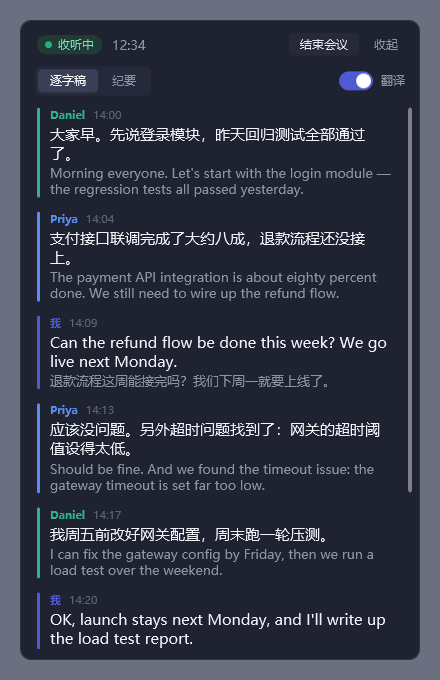
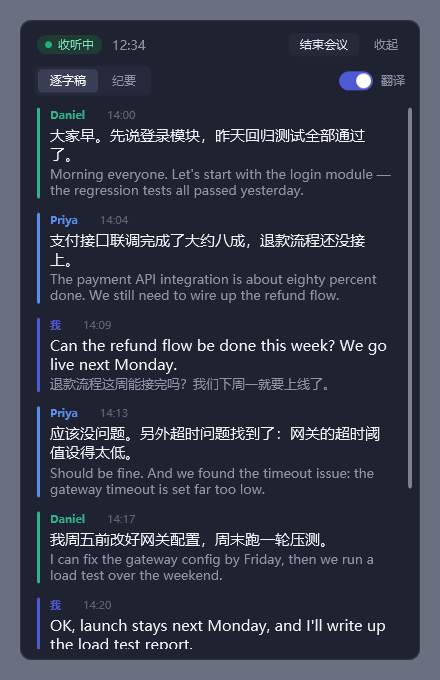
fix: notes call a renamed speaker by their name, and settings is a gear in the records window

diff --git a/src/HuiYi/MainWindow.xaml b/src/HuiYi/MainWindow.xaml
@@ -39,7 +39,9 @@
                 <!-- What the tray menu offers, here too: the translation switch and settings. -->
                 <Border DockPanel.Dock="Bottom" BorderBrush="#EEF0F5" BorderThickness="0,1,0,0" Margin="4,8,6,0" Padding="0,12,0,0">
                     <DockPanel>
-                        <Button DockPanel.Dock="Right" Content="设置" Style="{StaticResource Btn}" Padding="16,5" Click="Settings_Click"/>
+                        <Button DockPanel.Dock="Right" Style="{StaticResource GhostBtn}" Padding="7" ToolTip="设置" Click="Settings_Click">
+                            <TextBlock Text="&#xE713;" FontFamily="Segoe Fluent Icons, Segoe MDL2 Assets" FontSize="17" Foreground="#5A5F6B"/>
+                        </Button>
                         <CheckBox x:Name="TranslateOn" Style="{StaticResource Switch}" Content="翻译字幕" VerticalAlignment="Center"
                                   ToolTip="把对方说的话实时翻译成你的语言" Click="Translate_Click"/>
                     </DockPanel>

diff --git a/src/HuiYi.Core/Speakers.cs b/src/HuiYi.Core/Speakers.cs
@@ -276,6 +276,55 @@ public static class SpeakerLabels
     public static string Label(int number, IReadOnlyDictionary<int, string> names) =>
         names.TryGetValue(number, out var n) ? n : $"发言人 {number}";
 
+    private static readonly System.Text.RegularExpressions.Regex NumberedSpeaker = new(@"发言人\s?(\d+)");
+
+    /// "发言人1 说…" with the name given since: "测试 说…". Unnamed speakers stay as they are.
+    public static string WithNames(string text, IReadOnlyDictionary<int, string> names) =>
+        names.Count == 0 || text.Length == 0 ? text
+            : NumberedSpeaker.Replace(text, m => int.TryParse(m.Groups[1].Value, out var n) && names.TryGetValue(n, out var name) && name.Length > 0 ? name : m.Value);
+
+    /// The notes as they should read now. The AI writes them with the labels of the moment ("发言人1"),
+    /// and a speaker named afterwards should be called by that name everywhere, without rewriting
+    /// the notes. Returns a copy; the stored notes are left alone.
+    public static MeetingNotes WithNames(MeetingNotes notes, IReadOnlyDictionary<int, string> names)
+    {
+        if (names.Count == 0) return notes;
+        var c = System.Text.Json.JsonSerializer.Deserialize<MeetingNotes>(System.Text.Json.JsonSerializer.Serialize(notes, Json.Options), Json.Options)!;
+        string R(string s) => WithNames(s, names);
+        string? Rn(string? s) => s == null ? null : WithNames(s, names);
+        void Items(List<NoteItem>? items)
+        {
+            if (items == null) return;
+            foreach (var i in items)
+            {
+                i.Text = R(i.Text);
+                i.Owner = Rn(i.Owner);
+            }
+        }
+        c.Title = Rn(c.Title);
+        c.Summary = R(c.Summary);
+        foreach (var t in c.Topics)
+        {
+            t.Title = R(t.Title);
+            t.Summary = R(t.Summary);
+            t.Points = t.Points.Select(R).ToList();
+            if (t.Fishbone is { } f)
+            {
+                f.Question = R(f.Question);
+                foreach (var b in f.Branches)
+                {
+                    b.Label = R(b.Label);
+                    b.Detail = R(b.Detail);
+                }
+            }
+        }
+        Items(c.Conclusions);
+        Items(c.Todos);
+        if (c.Sections != null) foreach (var s in c.Sections) Items(s.Items);
+        foreach (var term in c.Terms) term.Note = R(term.Note);
+        return c;
+    }
+
     /// What a line shows as its speaker: 我, a speaker's name or number, or 发言人 while the voice has no number yet.
     public static string Who(TranscriptLine l, IReadOnlyDictionary<string, int> numbers, IReadOnlyDictionary<int, string> names) =>
         l.Speaker == "me" ? "我" : numbers.TryGetValue(l.Id, out var n) ? Label(n, names) : "发言人";

diff --git a/src/HuiYi/NotesRenderer.cs b/src/HuiYi/NotesRenderer.cs
@@ -11,9 +11,11 @@ namespace HuiYi.App;
 /// then cards for decisions, to-dos and names. In the dark live panel: the same structure, compact.
 public static class NotesRenderer
 {
-    private sealed class Look(bool cards, double size, DateTime start)
+    private sealed class Look(bool cards, double size, DateTime start, IReadOnlyDictionary<int, string>? names)
     {
         public bool Cards = cards;
+        /// Speaker number → the name given to it, so a named owner keeps their voice's colour.
+        public IReadOnlyDictionary<int, string> Names = names ?? new Dictionary<int, string>();
         public double Size = size;
         /// The meeting's local start: every time shown is a real clock time.
         public DateTime Start = start;
@@ -28,9 +30,13 @@ public static class NotesRenderer
     }
 
     /// `start`: when the meeting began (UTC or local), for real clock times.
-    public static UIElement Build(MeetingNotes n, DateTime start, double fontSize = 14, bool cards = false)
+    /// `names`: the meeting's speaker names (SpeakerLabels.Names): "发言人1" in the notes reads as the
+    /// name given since, and owners keep their voice's colour.
+    public static UIElement Build(MeetingNotes n, DateTime start, double fontSize = 14, bool cards = false,
+        IReadOnlyDictionary<int, string>? names = null)
     {
-        var k = new Look(cards, fontSize, start.ToLocalTime());
+        if (names is { Count: > 0 }) n = SpeakerLabels.WithNames(n, names);
+        var k = new Look(cards, fontSize, start.ToLocalTime(), names);
         var root = new StackPanel();
         if (n.IsEmpty) return root;
 
@@ -305,6 +311,8 @@ public static class NotesRenderer
     {
         var m = Regex.Match(owner, @"(?:发言人|说话人)\s*(\d+)");
         if (m.Success) return Theme.Speaker(int.Parse(m.Groups[1].Value));
+        foreach (var (number, name) in k.Names)
+            if (name.Length > 0 && name == owner) return Theme.Speaker(number);
         return owner is "你" or "我" ? Theme.OnAir : k.Accent;
     }
 

diff --git a/tests/HuiYi.Tests/InterpretingTests.cs b/tests/HuiYi.Tests/InterpretingTests.cs
@@ -24,6 +24,25 @@ public class InterpretingTests
     }
 
     [Fact]
+    public void NotesCallANamedSpeakerByTheirName()
+    {
+        var names = new Dictionary<int, string> { [1] = "测试" };
+        var notes = new MeetingNotes
+        {
+            Summary = "发言人1回顾年轻时不敢提问，发言人 2 补充了背景。",
+            Topics = [new NoteTopic { Title = "提问", Summary = "发言人1的经历", Points = ["发言人1：年轻时不敢问"] }],
+            Todos = [new NoteItem { Text = "跟进", Owner = "发言人1" }],
+        };
+        var shown = SpeakerLabels.WithNames(notes, names);
+        Assert.Equal("测试回顾年轻时不敢提问，发言人 2 补充了背景。", shown.Summary);   // unnamed 2 stays
+        Assert.Equal("测试的经历", shown.Topics[0].Summary);
+        Assert.Equal("测试：年轻时不敢问", shown.Topics[0].Points[0]);
+        Assert.Equal("测试", shown.Todos[0].Owner);
+        Assert.Equal("发言人1回顾年轻时不敢提问，发言人 2 补充了背景。", notes.Summary); // stored notes untouched
+        Assert.Equal("发言人12 说", SpeakerLabels.WithNames("发言人12 说", names));      // 12 is not 1
+    }
+
+    [Fact]
     public void ALineBeforeItsVoiceHasANumberReads发言人()
     {
         var line = new TranscriptLine { Id = "l1", Speaker = "them", Src = "我们先看一下这周的进度" };

diff --git a/src/HuiYi/NotesWindow.xaml.cs b/src/HuiYi/NotesWindow.xaml.cs
@@ -169,7 +169,7 @@ public partial class NotesWindow : Window
         if (PresentationSource.FromVisual(this)?.CompositionTarget is { } target) at = target.TransformFromDevice.Transform(at);
         SpeakerNameWindow.Ask(at, number, current, name =>
         {
-            model.Store.SetVoiceName(id, voice, name);
+            model.RenameVoice(id, voice, name);
             if (model.Store.Snapshot(id) is { } s) LineVM.Sync(lines, s, model.Settings.TranslationOn);
         });
     }
@@ -219,7 +219,8 @@ public partial class NotesWindow : Window
                 Text = model.Ai.HasKey ? "聊上几句后，AI 会在这里整理纪要，之后大约每 45 秒刷新一次。"
                                          : "在「设置 › AI 服务」里接入一个大模型，开会时就会自动整理纪要。",
             }
-            : NotesRenderer.Build(n.Notes, (n.ShownId is { } shown ? model.Store.Get(shown)?.StartedAt : null) ?? DateTime.Now);
+            : NotesRenderer.Build(n.Notes, (n.ShownId is { } shown ? model.Store.Get(shown)?.StartedAt : null) ?? DateTime.Now,
+                names: n.ShownId is { } named && model.Store.Snapshot(named) is { } s ? SpeakerLabels.Names(s) : null);
         NotesState.Text = n.Status switch
         {
             NotesEngine.State.Updating => "纪要整理中…",

diff --git a/src/HuiYi/MainWindow.xaml.cs b/src/HuiYi/MainWindow.xaml.cs
@@ -123,7 +123,7 @@ public partial class MainWindow : Window
         NotesBtn.IsEnabled = !generating && s.Id != model.LiveSessionId;
         NotesState.Text = generating ? "AI 正在通读整场会议…" : s.Notes?.UpdatedAt is { } at ? $"纪要更新于 {at.ToLocalTime():M月d日 HH:mm}" : "";
         NotesHost.Content = s.Notes is { IsEmpty: false } n
-            ? NotesRenderer.Build(n, s.StartedAt, 14, cards: true)
+            ? NotesRenderer.Build(n, s.StartedAt, 14, cards: true, names: SpeakerLabels.Names(s))
             : new Border
             {
                 Style = (Style)FindResource("Panel"),
@@ -166,7 +166,7 @@ public partial class MainWindow : Window
             void Save()
             {
                 var t = box.Text.Trim();
-                if (t != names.GetValueOrDefault(number, "")) model.Store.SetVoiceName(s.Id, voice, t);
+                if (t != names.GetValueOrDefault(number, "")) model.RenameVoice(s.Id, voice, t);
             }
             box.LostFocus += (_, _) => Save();
             box.KeyDown += (_, e) =>

diff --git a/src/HuiYi.Core/Sessions.cs b/src/HuiYi.Core/Sessions.cs
@@ -304,8 +304,9 @@ public static class TranscriptExport
         var end = s.EndedAt?.ToLocalTime();
         sb.AppendLine($"{NotesPrompt.When(start)}{(end != null ? $" – {end:HH:mm}" : "")} · 时长 {Clock(s.Duration.TotalSeconds)}");
         sb.AppendLine();
-        if (s.Notes is { IsEmpty: false } n)
+        if (s.Notes is { IsEmpty: false } written)
         {
+            var n = SpeakerLabels.WithNames(written, SpeakerLabels.Names(s));
             sb.AppendLine("## 纪要");
             sb.AppendLine();
             if (n.Summary.Length > 0)

diff --git a/src/HuiYi/AppModel.cs b/src/HuiYi/AppModel.cs
@@ -190,6 +190,13 @@ public sealed class AppModel
         return (SpeakerLabels.Who(line, numbers, SpeakerLabels.Names(s)), numbers.TryGetValue(lineId, out var n) ? n : null);
     }
 
+    /// Names a voice in a meeting; every view of its notes redraws with the name.
+    public void RenameVoice(string sessionId, int voice, string name)
+    {
+        Store.SetVoiceName(sessionId, voice, name);
+        NotesChanged?.Invoke();
+    }
+
     public void SaveSettings()
     {
         Settings.Save();

diff --git a/README.md b/README.md
@@ -47,6 +47,10 @@
   <img src="docs/images/panel-notes.png" width="380" alt="实时面板：实时纪要">
 </p>
 
+<p align="center">
+  <img src="docs/images/speaker-name.png" width="340" alt="在实时面板里点发言人的名字改名">
+</p>
+
 不想要面板的话，也可以换成屏幕底部的悬浮字幕：
 
 <p align="center">
